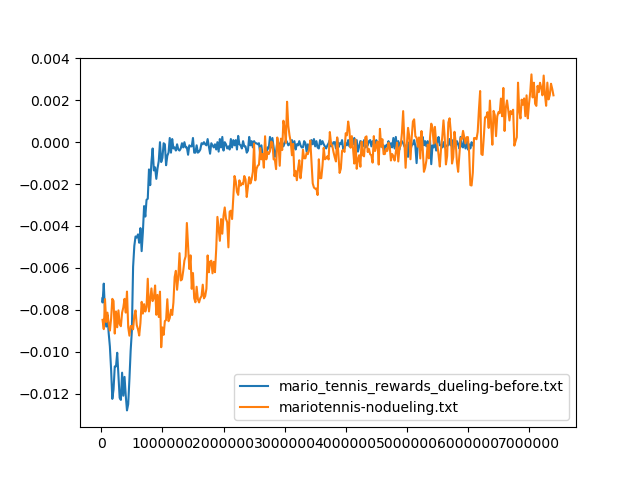
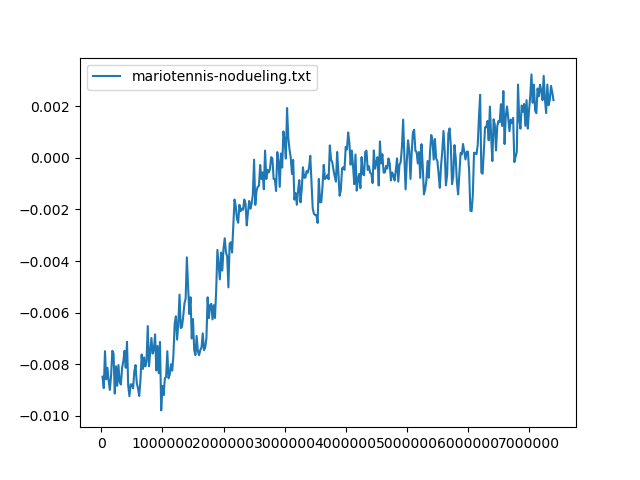
pics

diff --git a/python/scripts/metrics.py b/python/scripts/metrics.py
@@ -8,7 +8,7 @@ from datetime import datetime
 import csv
 
 FILES = [
-    "smash-20200120-level9.txt"
+    "mariotennis-nodueling.txt"
 ]
 
 data = []
